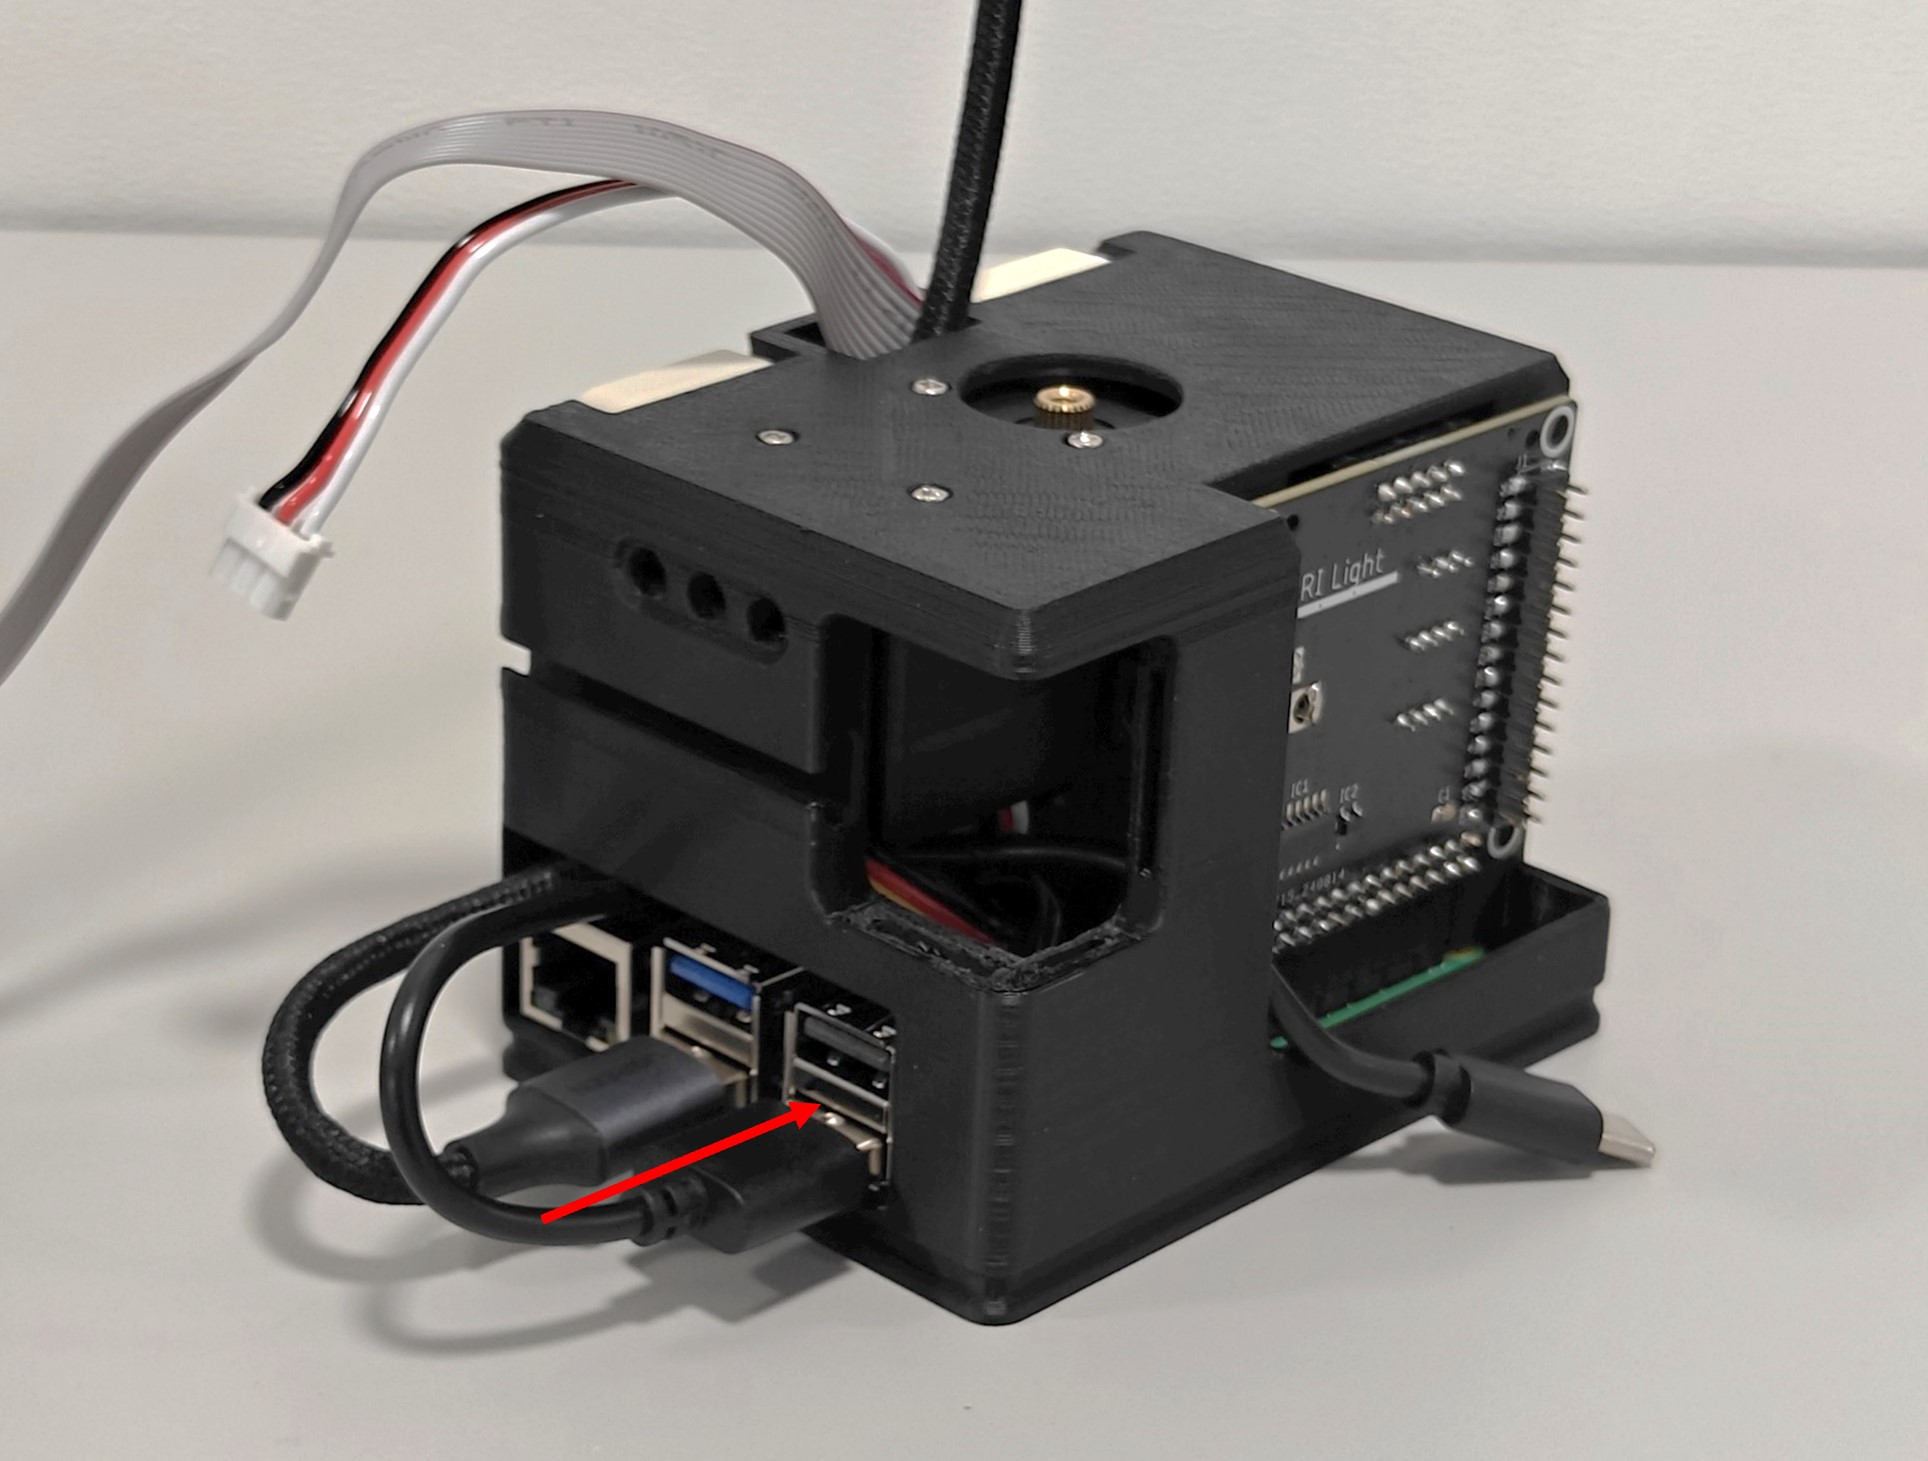
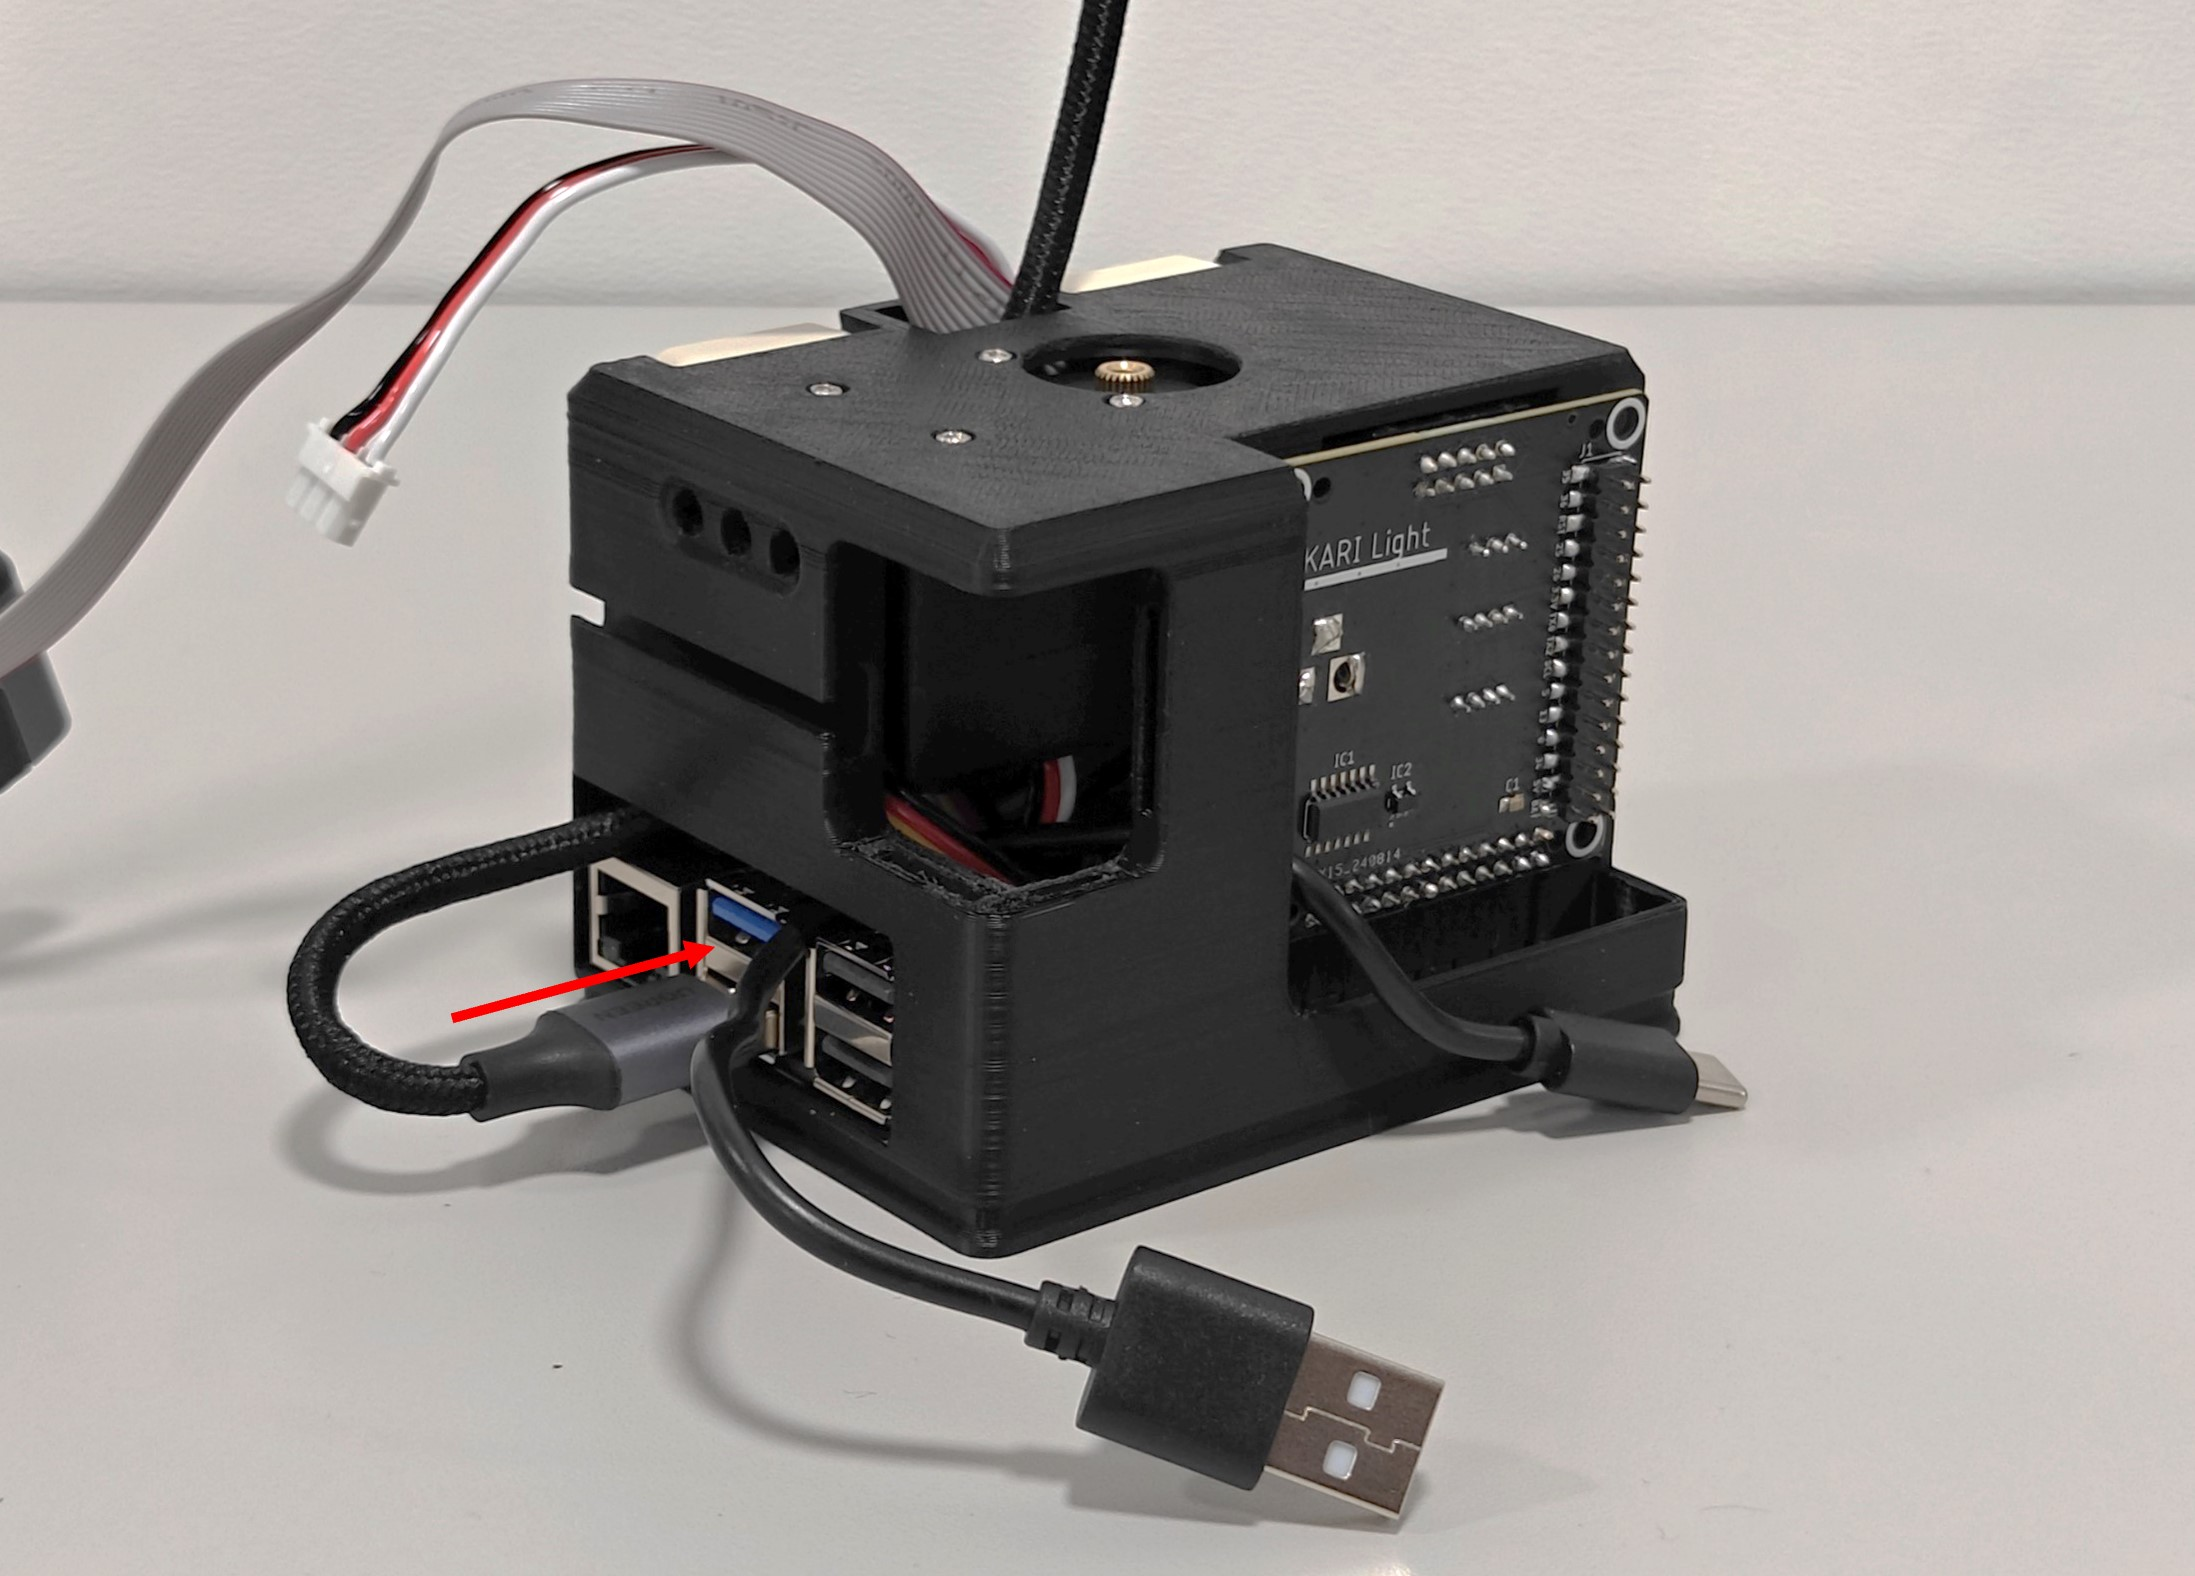
Fix images

diff --git a/source/assembly_light/assembly_hard/assembly_body.rst b/source/assembly_light/assembly_hard/assembly_body.rst
@@ -266,14 +266,17 @@
 .. image:: ../../images/assembly_light/body/body09-06.jpg
     :width: 400px
 
+.. image:: ../../images/assembly_light/body/body09-07.jpg
+    :width: 400px
+
 6. `(18) Raspberry Pi5 8GB` のUSB3.0ポートに、7 OAK-D用USBケーブルの配線で接続したUSBケーブルを接続する。
 
-.. image:: ../../images/assembly_light/body/body09-07.jpg
+.. image:: ../../images/assembly_light/body/body09-08.jpg
     :width: 400px
 
 7. `(18) Raspberry Pi5 8GB` のUSB2.0ポートに `(19) M5stack BASIC` 付属のUSBケーブルを接続する。
 
-.. image:: ../../images/assembly_light/body/body09-08.jpg
+.. image:: ../../images/assembly_light/body/body09-09.jpg
     :width: 400px
 
 10 M5stackの取り付け
